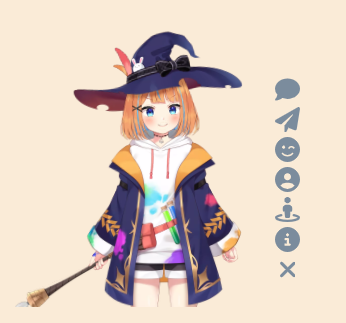
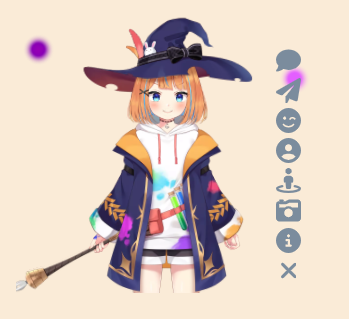
文档更新

Changed region(s): [[0.0289, 0.0564, 0.7225, 0.9592], [0.7803, 0.1411, 0.896, 0.8746], [0.0578, 0.1129, 0.1445, 0.1975]]

diff --git a/README.md b/README.md
@@ -39,7 +39,7 @@
       live2dSdkPath: cdnPath + "/live2d-sdk.js"
     },
     // 工具栏
-    tools: ["hitokoto", "asteroids", "express", "switch-model", "switch-texture", "info", "quit"],
+    tools: ["hitokoto", "asteroids", "express", "switch-model", "switch-texture", "photo", "info", "quit"],
     // 模型拖拽
     drag: {
       enable: true,
@@ -152,7 +152,7 @@
 
 + **(1) 调整模型大小和位置**
   + 在模型目录下，创建`config.json`文件，并填写下面的参数，具体参考 **Resources** 目录下的模型
-  + 调整模型大小和位置，可以搭配 [DEMO](https://letere-gzj.github.io/live2d-v3-demo/) 使用
+  + 调整模型大小和位置，可以搭配 [DEMO](https://letere-gzj.github.io/live2d-widget-v3/) 使用
   + **scale**: 模型大小
   + **translate.x**：模型x轴偏移量
   + **translate.y**：模型y轴偏移量
